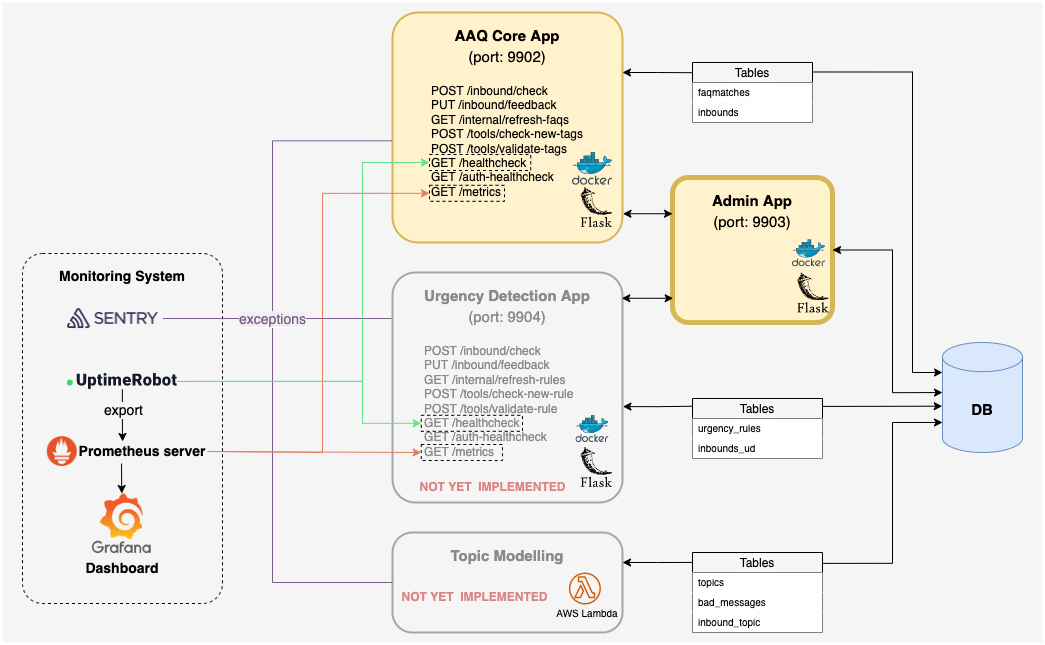
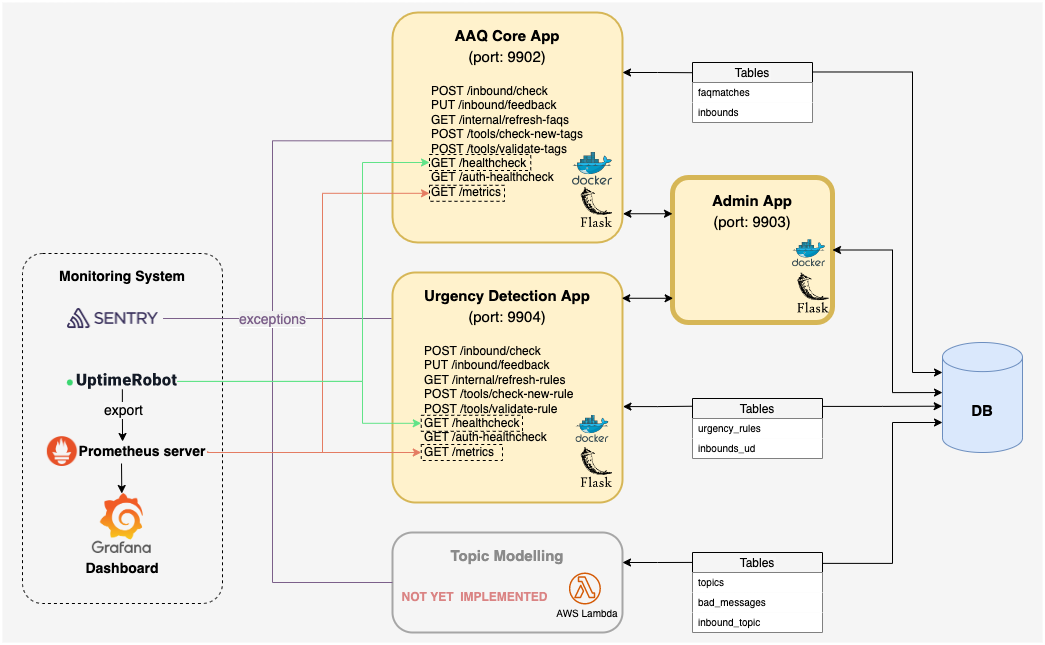
sids comments

Changed region(s): [[0.3675, 0.4031, 0.6124, 0.8062], [0.9187, 0.6202, 0.9493, 0.6512]]

diff --git a/docs/deployment_instructions.md b/docs/deployment_instructions.md
@@ -1,9 +1,9 @@
-June 6, 2022
+June 7, 2022
 
 CURRENT VERSION: aaq_admin_template:v1.0.0
 # Deploying the AAQ Admin App
 
-This is the deployment instructions for the **AAQ Admin App**. It does not cover deployment of the AAQ Admin App.
+This is the deployment instructions for the **AAQ Admin App**. It does not cover deployment of the AAQ Core or UD Apps.
 
 The AAQ Admin App provides a convenient interface to 
 1. add to or modify content tables (`faqmatches` for FAQs, and `urgency_rules` if urgency detection is enabled), and
@@ -13,7 +13,7 @@ The AAQ Admin App provides a convenient interface to
 
 # Initial setup
 
-First set up the AAQ Core App (from `aaq_core_template`) and optionally the urgency detection app (template not provided yet).
+First set up the AAQ Core App (from `aaq_core_template`) and optionally the urgency detection app (from `aaq_ud_template`).
 
 # Images
 
@@ -24,7 +24,7 @@ You'll need a token to access the image. Please contact IDinsight for this token
 
 ## Resources for images
 
-The admin app doesn't require much resources.
+The Admin app doesn't require many resources as the heavy processing is done in the Core and UD apps.
 
 ## Image setup
 
